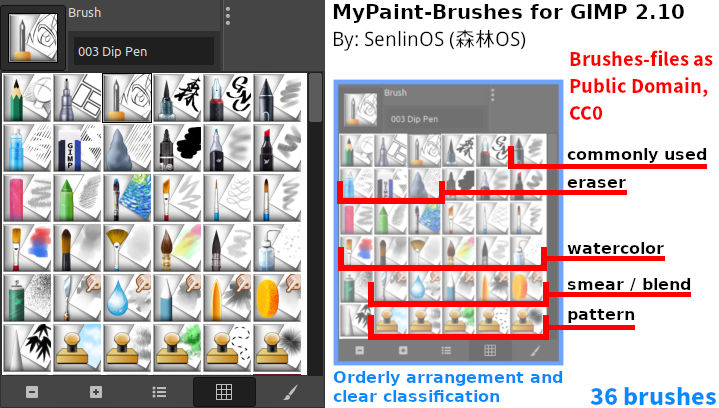
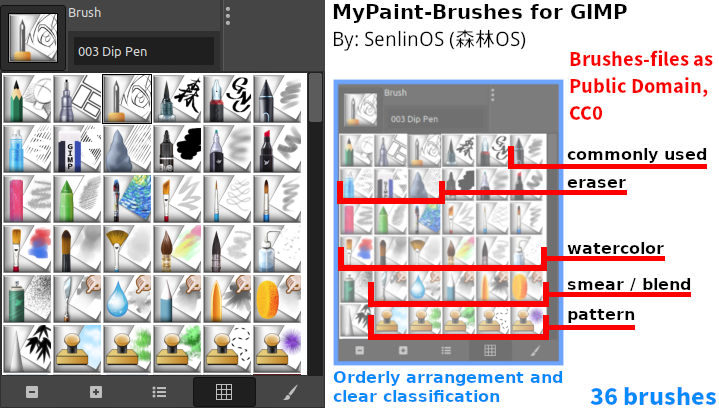
Up

Changed region(s): [[0.0, 0.1765, 0.4284, 0.9118], [0.5814, 0.7353, 0.765, 0.8235], [0.8873, 0.0, 0.9485, 0.0588]]

diff --git a/post/index.html b/post/index.html
@@ -115,7 +115,22 @@
       
       <a class="entry__title-link" href="/post/slos-gimpainter-released/">我的新项目 SLOS-GIMPainter 发布</a>
 </h1>
-	<div class="entry__content">SLOS-GIMPainter 项目地址：GitHub SLOS-GIMPainter 是为 GIMP 2.10.20 或更高版本的画笔包。 The English description is in the project. SLOS-GIMPainter 稳定版 总计：115个 = 107个画笔 + 8个工具 2025-02-17 更新 优化：视频 删除工具预</div>
+	<div class="entry__content">SLOS-GIMPainter 项目地址：GitHub SLOS-GIMPainter 是为 GIMP 2.10.20 或更高版本的画笔包。 The English description is in the project. SLOS-GIMPainter 稳定版 总计：115个 = 107个画笔 + 8个工具 2025-03-18 更新 工具预设名称重新排序</div>
+</article>
+
+				</div>
+			
+				<div class="card card--1col">
+					<article class="entry card__box block">
+	<h1 class="entry__title title-excerpt">
+      
+        <span class="post-pinned">
+          <img class="post-pinned" alt="Pinned" title="Pinned" src="/img/pushpin.svg"/>
+        </span>
+      
+      <a class="entry__title-link" href="/post/mypaint-brushes-for-gimp-2.10-by_senlinos/">MyPaint-Brushes for GIMP 2.10/GIMP3</a>
+</h1>
+	<div class="entry__content">2025-03-18 更新 因为在GIMP3中没有效果，所以改变了028_Blend和029_Smear的默认参数（也适用于GIMP2.10.x） 改进了033_G</div>
 </article>
 
 				</div>
@@ -131,21 +146,6 @@
       <a class="entry__title-link" href="/post/modify-delux-t9-keyboard-mapping/">在GNU/Linux中修改T9键盘映射</a>
 </h1>
 	<div class="entry__content">2021-05-24 更新：删除了以前用的键位映射的方法，因为旧方法是改变系统设置，单手键盘与电脑键盘上的键位一同改变。 新方法是只改变指定硬件的键位，也就是只改</div>
-</article>
-
-				</div>
-			
-				<div class="card card--1col">
-					<article class="entry card__box block">
-	<h1 class="entry__title title-excerpt">
-      
-        <span class="post-pinned">
-          <img class="post-pinned" alt="Pinned" title="Pinned" src="/img/pushpin.svg"/>
-        </span>
-      
-      <a class="entry__title-link" href="/post/linuxwacom-ctl671-settings/">Openbox/XFCE桌面中设置Wacom CTL-671</a>
-</h1>
-	<div class="entry__content">2021-09-20 更新：删除了以前使用的参考别人的脚本 (参数有些繁琐)，这次我自己写了个简洁的设置脚本。 在 Xubuntu GNU/Linux 系统（或XFCE桌面环境）中已经默认安装了Wa</div>
 </article>
 
 				</div>

diff --git a/tags/gimp/index.html b/tags/gimp/index.html
@@ -115,7 +115,22 @@
       
       <a class="entry__title-link" href="/post/slos-gimpainter-released/">我的新项目 SLOS-GIMPainter 发布</a>
 </h1>
-	<div class="entry__content">SLOS-GIMPainter 项目地址：GitHub SLOS-GIMPainter 是为 GIMP 2.10.20 或更高版本的画笔包。 The English description is in the project. SLOS-GIMPainter 稳定版 总计：115个 = 107个画笔 + 8个工具 2025-02-17 更新 优化：视频 删除工具预</div>
+	<div class="entry__content">SLOS-GIMPainter 项目地址：GitHub SLOS-GIMPainter 是为 GIMP 2.10.20 或更高版本的画笔包。 The English description is in the project. SLOS-GIMPainter 稳定版 总计：115个 = 107个画笔 + 8个工具 2025-03-18 更新 工具预设名称重新排序</div>
+</article>
+
+				</div>
+			
+				<div class="card card--1col">
+					<article class="entry card__box block">
+	<h1 class="entry__title title-excerpt">
+      
+        <span class="post-pinned">
+          <img class="post-pinned" alt="Pinned" title="Pinned" src="/img/pushpin.svg"/>
+        </span>
+      
+      <a class="entry__title-link" href="/post/mypaint-brushes-for-gimp-2.10-by_senlinos/">MyPaint-Brushes for GIMP 2.10/GIMP3</a>
+</h1>
+	<div class="entry__content">2025-03-18 更新 因为在GIMP3中没有效果，所以改变了028_Blend和029_Smear的默认参数（也适用于GIMP2.10.x） 改进了033_G</div>
 </article>
 
 				</div>
@@ -149,17 +164,6 @@
       <a class="entry__title-link" href="/post/gimp-the-focus-automatically-returns-to-the-canvas-window/">GIMP焦点自动返回到画布窗口</a>
 </h1>
 	<div class="entry__content">2019-10-09 更新，原来有四个设置，现在两个设置就可以。 直到 GIMP 2.10.x 单击其他对话框的选项后，画布窗口会失去焦点。 此时按下空格键相关快捷键将不起作用。 解决方案</div>
-</article>
-
-				</div>
-			
-				<div class="card card--1col">
-					<article class="entry card__box block">
-	<h1 class="entry__title title-excerpt">
-      
-      <a class="entry__title-link" href="/post/mypaint-brushes-for-gimp-2.10-by_senlinos/">MyPaint-Brushes for GIMP 2.10</a>
-</h1>
-	<div class="entry__content">GIMP 2.10 发布，添加了数不清的新功能。 其中的一个功能是 GIMP 可以使用 MyPaint 的画笔，但我感觉载入的默认画笔的图标与顺序有些混乱。 所以我制作了 36个 MyPaint 画笔，这</div>
 </article>
 
 				</div>

diff --git a/tags/brushes/index.html b/tags/brushes/index.html
@@ -115,7 +115,22 @@
       
       <a class="entry__title-link" href="/post/slos-gimpainter-released/">我的新项目 SLOS-GIMPainter 发布</a>
 </h1>
-	<div class="entry__content">SLOS-GIMPainter 项目地址：GitHub SLOS-GIMPainter 是为 GIMP 2.10.20 或更高版本的画笔包。 The English description is in the project. SLOS-GIMPainter 稳定版 总计：115个 = 107个画笔 + 8个工具 2025-02-17 更新 优化：视频 删除工具预</div>
+	<div class="entry__content">SLOS-GIMPainter 项目地址：GitHub SLOS-GIMPainter 是为 GIMP 2.10.20 或更高版本的画笔包。 The English description is in the project. SLOS-GIMPainter 稳定版 总计：115个 = 107个画笔 + 8个工具 2025-03-18 更新 工具预设名称重新排序</div>
+</article>
+
+				</div>
+			
+				<div class="card card--1col">
+					<article class="entry card__box block">
+	<h1 class="entry__title title-excerpt">
+      
+        <span class="post-pinned">
+          <img class="post-pinned" alt="Pinned" title="Pinned" src="/img/pushpin.svg"/>
+        </span>
+      
+      <a class="entry__title-link" href="/post/mypaint-brushes-for-gimp-2.10-by_senlinos/">MyPaint-Brushes for GIMP 2.10/GIMP3</a>
+</h1>
+	<div class="entry__content">2025-03-18 更新 因为在GIMP3中没有效果，所以改变了028_Blend和029_Smear的默认参数（也适用于GIMP2.10.x） 改进了033_G</div>
 </article>
 
 				</div>
@@ -138,17 +153,6 @@
       <a class="entry__title-link" href="/post/manually-save-temporary-presets/">在 GIMP 中手动保存临时预设</a>
 </h1>
 	<div class="entry__content">Manually save temporary presets in GIMP, English “ 如果 GIMP 可以临时保存画笔尺寸就好了！” 这是我想要的一个功能，但 GIMP 似乎没有这个功能！ 不过今天我偶然发现了这个特性：在 GIMP 中手动保存</div>
-</article>
-
-				</div>
-			
-				<div class="card card--1col">
-					<article class="entry card__box block">
-	<h1 class="entry__title title-excerpt">
-      
-      <a class="entry__title-link" href="/post/mypaint-brushes-for-gimp-2.10-by_senlinos/">MyPaint-Brushes for GIMP 2.10</a>
-</h1>
-	<div class="entry__content">GIMP 2.10 发布，添加了数不清的新功能。 其中的一个功能是 GIMP 可以使用 MyPaint 的画笔，但我感觉载入的默认画笔的图标与顺序有些混乱。 所以我制作了 36个 MyPaint 画笔，这</div>
 </article>
 
 				</div>

diff --git a/post/mypaint-brushes-for-gimp-2.10-by_senlinos/index.html b/post/mypaint-brushes-for-gimp-2.10-by_senlinos/index.html
@@ -4,7 +4,7 @@
 	<meta charset="UTF-8">
 	<meta http-equiv="X-UA-Compatible" content="IE=edge">
 	<meta name="viewport" content="width=device-width, initial-scale=1">
-	<title>MyPaint-Brushes for GIMP 2.10 | SENLINOS ON THE WEB</title>
+	<title>MyPaint-Brushes for GIMP 2.10/GIMP3 | SENLINOS ON THE WEB</title>
 	<script>(function(d,e){d[e]=d[e].replace("no-js","js");})(document.documentElement,"className");</script>
 	<meta name="description" content="Comics Art, Drawing and Painting with GNU/Linux.">
 	<link rel="stylesheet" href="/css/main1.css">
@@ -95,8 +95,16 @@
 	<div class="entry__meta meta mb">
 	<time class="entry__meta-published meta-published" datetime="2018-05-01T11:35:37&#43;08:00">2018-05-01</time>
 	</div>
-				<center><h1 class="entry__title title-bottom">MyPaint-Brushes for GIMP 2.10</h1></center>
-				<div class="entry__content"><p><img src="/img/MyPaint-Brushes-for-GIMP-2.10-By_SenlinOS.jpg"/></p>
+				<center><h1 class="entry__title title-bottom">MyPaint-Brushes for GIMP 2.10/GIMP3</h1></center>
+				<div class="entry__content"><p><mark>2025-03-18 更新</mark></p>
+
+<ul>
+<li><p>因为在GIMP3中没有效果，所以改变了028_Blend和029_Smear的默认参数（也适用于GIMP2.10.x）</p></li>
+
+<li><p>改进了033_Grass与036_Plush的图标。</p></li>
+</ul>
+
+<p><img src="/img/MyPaint-Brushes-for-GIMP-2.10-By_SenlinOS.jpg"/></p>
 
 <p><img src="/img/mpb-installation-method.jpg"/></p>
 
@@ -163,16 +171,16 @@
         <div class="pagination__buttons">
           
             <span class="button previous">
-              <a href="/post/lubuntu-18-04-blender-mcomix/">
+              <a href="/post/slos-gimpainter-released/">
                 <span class="button__icon">⬅</span>
-                <span class="button__text">Xubuntu-18.04、Blender中文界面</span>
+                <span class="button__text">我的新项目 SLOS-GIMPainter 发布</span>
               </a>
             </span>
           
           
             <span class="button next">
-              <a href="/post/azpainter-and-my-git-warehouse/">
-                <span class="button__text">关于 AzPainter 翻译文件</span>
+              <a href="/post/modify-delux-t9-keyboard-mapping/">
+                <span class="button__text">在GNU/Linux中修改T9键盘映射</span>
                 <span class="button__icon">➡</span>
               </a>
             </span>

diff --git a/tags/hardware-linux/index.html b/tags/hardware-linux/index.html
@@ -124,21 +124,6 @@
 					<article class="entry card__box block">
 	<h1 class="entry__title title-excerpt">
       
-        <span class="post-pinned">
-          <img class="post-pinned" alt="Pinned" title="Pinned" src="/img/pushpin.svg"/>
-        </span>
-      
-      <a class="entry__title-link" href="/post/linuxwacom-ctl671-settings/">Openbox/XFCE桌面中设置Wacom CTL-671</a>
-</h1>
-	<div class="entry__content">2021-09-20 更新：删除了以前使用的参考别人的脚本 (参数有些繁琐)，这次我自己写了个简洁的设置脚本。 在 Xubuntu GNU/Linux 系统（或XFCE桌面环境）中已经默认安装了Wa</div>
-</article>
-
-				</div>
-			
-				<div class="card card--1col">
-					<article class="entry card__box block">
-	<h1 class="entry__title title-excerpt">
-      
       <a class="entry__title-link" href="/post/change-mouse-side-button-to-middle-button/">在GNU/Linux系统中将鼠标侧键改为中键</a>
 </h1>
 	<div class="entry__content">对于普遍使用的通用鼠标来说，将滚轮按下就是中键，但有些费力，按动也不舒服。 我也看过一些购买特制三键鼠标的用户评价：无滚轮、滚轮不耐用、质量一</div>
@@ -186,6 +171,17 @@
       <a class="entry__title-link" href="/post/chromium-keyrings-and-usb-soundcard/">解决打开Chromium需要密码与USB声卡</a>
 </h1>
 	<div class="entry__content">2021-03-06 更新，现在只使用Firefox火狐浏览器。 火狐中浏览PDF的功能很全面。插件多、安装也方便。 解决打开 Chromium 浏览器需要密码 我使用 Xubuntu 系统时喜欢使用</div>
+</article>
+
+				</div>
+			
+				<div class="card card--1col">
+					<article class="entry card__box block">
+	<h1 class="entry__title title-excerpt">
+      
+      <a class="entry__title-link" href="/post/linuxwacom-ctl671-settings/">Openbox/XFCE桌面中设置Wacom CTL-671</a>
+</h1>
+	<div class="entry__content">2021-09-20 更新：删除了以前使用的参考别人的脚本 (参数有些繁琐)，这次我自己写了个简洁的设置脚本。 在 Xubuntu GNU/Linux 系统（或XFCE桌面环境）中已经默认安装了Wa</div>
 </article>
 
 				</div>

diff --git a/post/slos-gimpainter-released/index.html b/post/slos-gimpainter-released/index.html
@@ -105,7 +105,17 @@
 <p><strong>SLOS-GIMPainter 稳定版</strong>
 <br />总计：115个 = 107个画笔 + 8个工具</p>
 
-<p><mark>2025-02-17 更新</mark></p>
+<p><mark>2025-03-18 更新</mark></p>
+
+<ul>
+<li><p>工具预设名称重新排序，<a href="/img/Tool-Preset-names-reorder.png">查看截图</a>。以前的命名方式是001、001a、001b。这次按实际顺序重新命名。</p></li>
+
+<li><p>GIMP3已经发布，这个项目现在默认支持GIMP3。如果您使用的是<strong>GIMP2.10.20到2.10.38</strong>的版本，请在项目中将tool-presets/SLOS目录下的064_Gradient-Pen_ForG3.gtp文件替换为<strong>064_Gradient-Pen_ForG2.gtp</strong>文件。</p></li>
+</ul>
+
+<hr />
+
+<p>2025-02-17</p>
 
 <ul>
 <li>优化：<a href="https://www.bilibili.com/video/BV1KQwdeYE4i">视频</a>
@@ -113,7 +123,6 @@
 <ul>
 <li>删除工具预设tool-presets中的(foreground (color前景色参数。只有052_Glow需要这个参数，其他的都不需要前景色参数。</li>
 <li>色板palette的参数修改为Standard。</li>
-<li>上传了053a_Gradient-Pen_ForG3.gtp工具预设。如果你在使用GIMP 3.0 RC3，可以把这个文件放到tool-presets/SLOS目录中，然后删除053a_Gradient-Pen.gtp文件。（因为053a_Gradient-Pen.gtp在GIMP 3.0 RC3中不会启动默认的彩虹渐变。）</li>
 </ul></li>
 </ul>
 
@@ -266,8 +275,8 @@
           
           
             <span class="button next">
-              <a href="/post/modify-delux-t9-keyboard-mapping/">
-                <span class="button__text">在GNU/Linux中修改T9键盘映射</span>
+              <a href="/post/mypaint-brushes-for-gimp-2.10-by_senlinos/">
+                <span class="button__text">MyPaint-Brushes for GIMP 2.10/GIMP3</span>
                 <span class="button__icon">➡</span>
               </a>
             </span>

diff --git a/post/linuxwacom-ctl671-settings/index.html b/post/linuxwacom-ctl671-settings/index.html
@@ -246,16 +246,16 @@ xsetwacom set &quot;Wacom Bamboo One M Pen stylus&quot; Button 2 3
         <div class="pagination__buttons">
           
             <span class="button previous">
-              <a href="/post/modify-delux-t9-keyboard-mapping/">
+              <a href="/post/lubuntu-18-04-blender-mcomix/">
                 <span class="button__icon">⬅</span>
-                <span class="button__text">在GNU/Linux中修改T9键盘映射</span>
+                <span class="button__text">Xubuntu-18.04、Blender中文界面</span>
               </a>
             </span>
           
           
             <span class="button next">
-              <a href="/post/sed-subtitle-file-to-single-line/">
-                <span class="button__text">使用SED指令将字幕文件变成单行文本</span>
+              <a href="/post/azpainter-and-my-git-warehouse/">
+                <span class="button__text">关于 AzPainter 翻译文件</span>
                 <span class="button__icon">➡</span>
               </a>
             </span>

diff --git a/post/modify-delux-t9-keyboard-mapping/index.html b/post/modify-delux-t9-keyboard-mapping/index.html
@@ -202,16 +202,16 @@ Input device name: &quot;HID 0433:0004&quot;
         <div class="pagination__buttons">
           
             <span class="button previous">
-              <a href="/post/slos-gimpainter-released/">
+              <a href="/post/mypaint-brushes-for-gimp-2.10-by_senlinos/">
                 <span class="button__icon">⬅</span>
-                <span class="button__text">我的新项目 SLOS-GIMPainter 发布</span>
+                <span class="button__text">MyPaint-Brushes for GIMP 2.10/GIMP3</span>
               </a>
             </span>
           
           
             <span class="button next">
-              <a href="/post/linuxwacom-ctl671-settings/">
-                <span class="button__text">Openbox/XFCE桌面中设置Wacom CTL-671</span>
+              <a href="/post/sed-subtitle-file-to-single-line/">
+                <span class="button__text">使用SED指令将字幕文件变成单行文本</span>
                 <span class="button__icon">➡</span>
               </a>
             </span>

diff --git a/post/page/3/index.html b/post/page/3/index.html
@@ -164,9 +164,9 @@
 					<article class="entry card__box block">
 	<h1 class="entry__title title-excerpt">
       
-      <a class="entry__title-link" href="/post/mypaint-brushes-for-gimp-2.10-by_senlinos/">MyPaint-Brushes for GIMP 2.10</a>
+      <a class="entry__title-link" href="/post/linuxwacom-ctl671-settings/">Openbox/XFCE桌面中设置Wacom CTL-671</a>
 </h1>
-	<div class="entry__content">GIMP 2.10 发布，添加了数不清的新功能。 其中的一个功能是 GIMP 可以使用 MyPaint 的画笔，但我感觉载入的默认画笔的图标与顺序有些混乱。 所以我制作了 36个 MyPaint 画笔，这</div>
+	<div class="entry__content">2021-09-20 更新：删除了以前使用的参考别人的脚本 (参数有些繁琐)，这次我自己写了个简洁的设置脚本。 在 Xubuntu GNU/Linux 系统（或XFCE桌面环境）中已经默认安装了Wa</div>
 </article>
 
 				</div>

diff --git a/index.html b/index.html
@@ -98,9 +98,9 @@
 
 <div id="news" class="news-img" >
 <marquee><span>更新链接：
-1. <a href="/post/slos-gimpainter-released/">博文 - 优化了我的GIMP画笔项目SLOS-GIMPainter</a>&emsp;
-2. <a href="/post/sed-subtitle-file-to-single-line/">博文 - 使用SED指令将字幕文件变成单行文本</a>&emsp;
-3. <a href="/about/">关于 - 上传了我的PGP公钥，网页底部添加了mailto链接</a>&emsp;
+1. <a href="/post/slos-gimpainter-released/">博文 - 我的GIMP画笔项目SLOS-GIMPainter更新</a>&emsp;
+2. <a href="/post/mypaint-brushes-for-gimp-2.10-by_senlinos/">博文 - MyPaint-Brushes for GIMP 2.10/GIMP3项目更新</a>&emsp;
+3. <a href="/post/sed-subtitle-file-to-single-line/">博文 - 使用SED指令将字幕文件变成单行文本</a>&emsp;
 </span></marquee>
 </div>
 

diff --git a/post/lubuntu-18-04-blender-mcomix/index.html b/post/lubuntu-18-04-blender-mcomix/index.html
@@ -167,8 +167,8 @@ Blender 就可以使用 <kbd>Alt</kbd>+鼠标左键 来旋转视图。</p>
           
           
             <span class="button next">
-              <a href="/post/mypaint-brushes-for-gimp-2.10-by_senlinos/">
-                <span class="button__text">MyPaint-Brushes for GIMP 2.10</span>
+              <a href="/post/linuxwacom-ctl671-settings/">
+                <span class="button__text">Openbox/XFCE桌面中设置Wacom CTL-671</span>
                 <span class="button__icon">➡</span>
               </a>
             </span>

diff --git a/post/sed-subtitle-file-to-single-line/index.html b/post/sed-subtitle-file-to-single-line/index.html
@@ -210,9 +210,9 @@ https://www.example.com
         <div class="pagination__buttons">
           
             <span class="button previous">
-              <a href="/post/linuxwacom-ctl671-settings/">
+              <a href="/post/modify-delux-t9-keyboard-mapping/">
                 <span class="button__icon">⬅</span>
-                <span class="button__text">Openbox/XFCE桌面中设置Wacom CTL-671</span>
+                <span class="button__text">在GNU/Linux中修改T9键盘映射</span>
               </a>
             </span>
           
